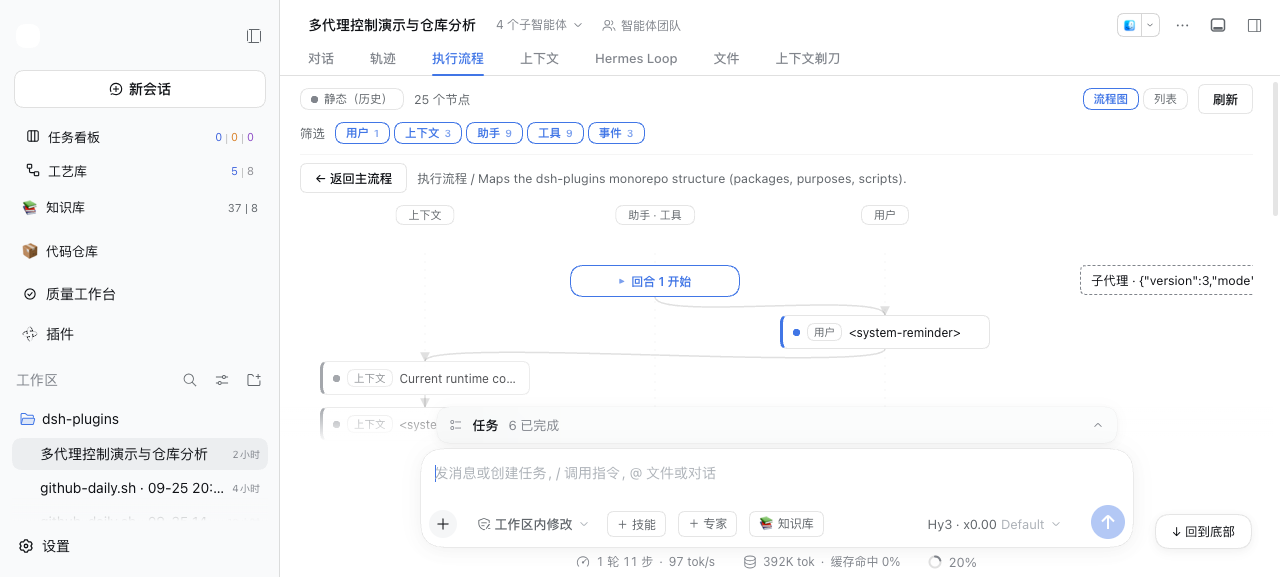
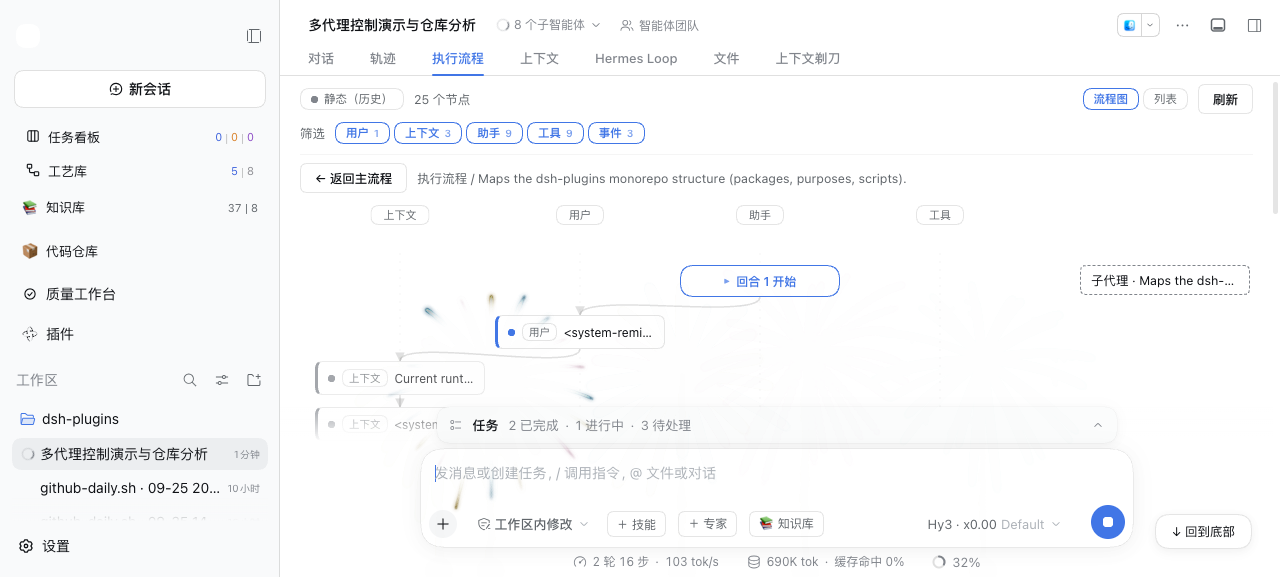
feat: 四泳道布局 + 工具铁路侧线 + 视觉打磨
- 泳道按转移频率排布（上下文|用户|助手|工具），流向单调、交叉最少
- 工具组展开改为铁路侧线：成员在工具泳道纵向串联，一进一出两条边
- 子代理扇形保留发散-收敛；已配对名册不再重复挂旁路；单子代理也走扇形
- 吸顶工具栏 + 泳道列头 chip + 上下文降级 + hover 提升
- 回合椭圆带图标与耗时；详情弹窗标题带摘要；descriptor 取顶层 label
- README 接入四张实拍图（总览/扇形/下钻/列表）

diff --git a/client/bundle.js b/client/bundle.js
@@ -375,23 +375,26 @@ window.__ModuleLoader__.load({
     }
 
     // ── 流程图布局 ───────────────────────────────────────────────────────────
-    // 三条垂直泳道：上下文（左，注入类消息）/ 助手与工具（中，主链）/ 用户（右）。
-    // 回合椭圆与审批菱形居中泳道；展开的工具组向右扇出 fork-join 分支；并行的
-    // 子代理委派（subagent/agent/lead 工具的连续并行调用）在主链下方横向一字
-    // 排开，发散再收敛；重试/失败尝试/压缩等旁路事件挂最右侧虚线分支。
+    // 四条垂直泳道按「转移频率」排布，让流向单调、交叉最少：
+    //   上下文 | 用户 | 助手（主链）| 工具
+    // 回合开始时从左向右单调推进（注入 → 提问 → 助手），随后助手↔工具在右侧相邻
+    // 两列来回——相邻泳道短弧线，不再左右横穿。
+    // 展开的工具组是「铁路侧线」：成员在工具泳道纵向串联，组框一条边引入、末成员
+    // 一条边汇回主链；子代理委派组保持横向发散-收敛扇形；重试/压缩等旁路挂在
+    // 工具泳道右侧。
     const CHART = {
-      laneCtxX: 125, spineX: 355, laneUserX: 585,
-      boxW: 210, boxH: 34,
-      ovalW: 170, ovalEndW: 236, ovalH: 32, diamondW: 160, diamondH: 44,
+      laneCtxX: 100, laneUserX: 280, spineX: 460, laneToolX: 640,
+      boxW: 170, boxH: 34,
+      ovalW: 160, ovalEndW: 220, ovalH: 32, diamondW: 150, diamondH: 44,
       rowGap: 12, turnGap: 18,
-      branchX: 760, memberW: 220, memberH: 30, memberGap: 6,
-      sideX: 780, sideW: 210, sideH: 30, sideGap: 6,
-      fanMemberW: 180, fanGapX: 14, fanDrop: 54,
+      memberW: 170, memberH: 30, memberGap: 8,
+      sideX: 780, sideW: 170, sideH: 30, sideGap: 6,
+      fanMemberW: 165, fanGapX: 12, fanDrop: 54,
       padTop: 34, padBottom: 24,
     }
     const SIDE_KINDS = new Set(['retry', 'attempt', 'compaction', 'command', 'subagent', 'workflow', 'goal'])
 
-    /** 泳道中心线：上下文靠左、用户靠右、其余（助手/工具/待办/回合/审批）居中。 */
+    /** 泳道中心线：上下文靠左、用户次左、助手居中、工具靠右。 */
     function laneXFor(kind) {
       if (kind === 'context') return CHART.laneCtxX
       if (kind === 'user') return CHART.laneUserX
@@ -468,15 +471,16 @@ window.__ModuleLoader__.load({
 
     /**
      * 布局：items（groupNodes 之后）→ { pos: Map(id → {x,y,w,h,shape,item}),
-     * edges: [{x1,y1,x2,y2,kind}], width, height, fanGroups }。纯函数。
-     * kind 取值：spine（主链）/ fork / join（右列工具分支）/ fanfork / fanjoin
-     * （子代理扇形）/ retry / attempt / compaction / command / …（虚线旁路）。
+     * edges: [{x1,y1,x2,y2,kind,hue?}], width, height, fanGroups }。纯函数。
+     * kind 取值：spine（主链）/ fork / chain / join（工具侧线）/ fanfork /
+     * fanjoin（子代理扇形）/ retry / attempt / compaction / …（虚线旁路）。
      */
     function layoutFlow(items, openGroups) {
       const pos = new Map()
       const spine = []
       const sides = []
-      const fans = []        // 展开的并行子代理组（供边生成）
+      const fans = []        // 展开的子代理组（供边生成）
+      const sidings = []     // 展开的普通工具组（铁路侧线）
       const anchorSlots = new Map()
       let y = CHART.padTop
       let lastSpineId = null
@@ -496,7 +500,7 @@ window.__ModuleLoader__.load({
         const shape = kind === 'turn' ? 'oval' : kind === 'approval' ? 'diamond' : 'box'
         const w = shape === 'oval' ? (item.phase === 'end' ? CHART.ovalEndW : CHART.ovalW) : shape === 'diamond' ? CHART.diamondW : CHART.boxW
         const hgt = shape === 'oval' ? CHART.ovalH : shape === 'diamond' ? CHART.diamondH : CHART.boxH
-        // 回合与决策始终居中泳道；用户/上下文各走自己的泳道
+        // 回合与决策在主泳道；用户/上下文各走自己的泳道
         const laneX = shape === 'box' ? laneXFor(kind) : CHART.spineX
         pos.set(item.id, { x: laneX - w / 2, y, w, h: hgt, shape, item })
         spine.push(item.id)
@@ -515,11 +519,13 @@ window.__ModuleLoader__.load({
             fans.push(item.id)
             y = fanY + CHART.memberH + 10
           } else {
-            // 普通工具组：右列 fork-join
+            // 铁路侧线：成员在工具泳道纵向串联，位于组框与下一个主链节点之间
+            const mx = CHART.laneToolX - CHART.memberW / 2
             ms.forEach((m, i) => {
-              pos.set(m.id, { x: CHART.branchX, y: y + 6 + i * (CHART.memberH + CHART.memberGap), w: CHART.memberW, h: CHART.memberH, shape: 'member', item: m })
+              pos.set(m.id, { x: mx, y: y + 6 + i * (CHART.memberH + CHART.memberGap), w: CHART.memberW, h: CHART.memberH, shape: 'member', item: m })
             })
-            y += 6 + ms.length * CHART.memberH + Math.max(0, ms.length - 1) * CHART.memberGap + 6
+            sidings.push(item.id)
+            y += 6 + ms.length * CHART.memberH + Math.max(0, ms.length - 1) * CHART.memberGap + 10
           }
         }
         y += kind === 'turn' ? CHART.turnGap : CHART.rowGap
@@ -535,11 +541,12 @@ window.__ModuleLoader__.load({
       }
 
       const fanSet = new Set(fans)
+      const sidingSet = new Set(sidings)
       const edges = []
-      // 主链：相邻脊柱节点串联；展开的子代理扇形占据的区间不画直线（由扇形边表达流向）
+      // 主链：相邻脊柱节点串联；展开的组（扇形/侧线）区间不画直线——流向由分支表达
       for (let i = 1; i < spine.length; i++) {
         const prevItem = pos.get(spine[i - 1]).item
-        if (fanSet.has(prevItem.id)) continue
+        if (fanSet.has(prevItem.id) || sidingSet.has(prevItem.id)) continue
         const a = pos.get(spine[i - 1])
         const b = pos.get(spine[i])
         edges.push({
@@ -568,18 +575,32 @@ window.__ModuleLoader__.load({
           }
           continue
         }
-        // 普通工具组：fork 出右列、join 回主链（边随成员工具的颜色）
-        const gy = g.y + g.h / 2
-        const jx = next ? next.x + next.w : g.x + g.w / 2
-        const jy = next ? next.y + next.h / 2 : g.y + g.h + 12
-        for (const m of item.members) {
-          const p = pos.get(m.id)
-          const my = p.y + p.h / 2
-          edges.push({ x1: g.x + g.w, y1: gy, x2: p.x, y2: my, kind: 'fork', hue: toolHue(m.name) })
-          edges.push({ x1: p.x + p.w, y1: my, x2: jx, y2: jy, kind: 'join', hue: toolHue(m.name) })
+        // 铁路侧线：组框右缘 → 首成员顶中；成员间在工具泳道内垂直串联；
+        // 末成员底中 → 下一脊柱节点顶中。边色随各成员工具。
+        const first = pos.get(item.members[0].id)
+        const last = pos.get(item.members[item.members.length - 1].id)
+        edges.push({
+          x1: g.x + g.w, y1: g.y + g.h / 2,
+          x2: CHART.laneToolX, y2: first.y,
+          kind: 'fork', hue: toolHue(item.members[0].name),
+        })
+        for (let i = 1; i < item.members.length; i++) {
+          const prev = pos.get(item.members[i - 1].id)
+          const cur = pos.get(item.members[i].id)
+          edges.push({
+            x1: CHART.laneToolX, y1: prev.y + prev.h,
+            x2: CHART.laneToolX, y2: cur.y,
+            kind: 'chain', hue: toolHue(item.members[i].name),
+          })
         }
+        edges.push({
+          x1: CHART.laneToolX, y1: last.y + last.h,
+          x2: next ? next.x + next.w / 2 : g.x + g.w / 2,
+          y2: next ? next.y : last.y + last.h + 28,
+          kind: 'join', hue: toolHue(item.members[item.members.length - 1].name),
+        })
       }
-      // 旁路：锚点右边 → 旁路框左边（虚线）
+      // 旁路：锚点右边 → 旁路框左边（虚线，工具泳道右侧）
       for (const { item, anchorId } of sides) {
         const a = pos.get(anchorId)
         const p = pos.get(item.id)
@@ -732,7 +753,7 @@ window.__ModuleLoader__.load({
     .fw-chart-edges{position:absolute;left:0;top:0;pointer-events:none;overflow:visible}
     .fw-edge{fill:none;stroke:var(--dsw-alias-border-l3,rgba(128,128,128,.6));stroke-width:1.5}
     .fw-edge.spine{stroke:var(--dsw-alias-border-l3,rgba(128,128,128,.7))}
-    .fw-edge.fork,.fw-edge.join,.fw-edge.fanfork,.fw-edge.fanjoin{stroke-width:1.8}
+    .fw-edge.fork,.fw-edge.join,.fw-edge.fanfork,.fw-edge.fanjoin,.fw-edge.chain{stroke-width:1.8}
     .fw-edge.retry{stroke:hsl(20,85%,50%);stroke-dasharray:5 4}
     .fw-edge.attempt{stroke:var(--dsw-alias-state-error-primary);stroke-dasharray:5 4}
     .fw-edge.subagent{stroke:hsl(265,60%,52%);stroke-dasharray:5 4}
@@ -973,8 +994,9 @@ window.__ModuleLoader__.load({
         : null
       const lanes = [
         { x: CHART.laneCtxX, label: t('kindContext') },
-        { x: CHART.spineX, label: t('kindAssistant') + ' · ' + t('kindTool') },
         { x: CHART.laneUserX, label: t('kindUser') },
+        { x: CHART.spineX, label: t('kindAssistant') },
+        { x: CHART.laneToolX, label: t('kindTool') },
       ]
       return h('div', { className: 'fw-chart-wrap' },
         // 泳道列头：sticky，滚动长图时始终可见（与画布同宽同坐标系）

diff --git a/client/index.js b/client/index.js
@@ -365,23 +365,26 @@ function toolGroupLine(members) {
 }
 
 // ── 流程图布局 ───────────────────────────────────────────────────────────
-// 三条垂直泳道：上下文（左，注入类消息）/ 助手与工具（中，主链）/ 用户（右）。
-// 回合椭圆与审批菱形居中泳道；展开的工具组向右扇出 fork-join 分支；并行的
-// 子代理委派（subagent/agent/lead 工具的连续并行调用）在主链下方横向一字
-// 排开，发散再收敛；重试/失败尝试/压缩等旁路事件挂最右侧虚线分支。
+// 四条垂直泳道按「转移频率」排布，让流向单调、交叉最少：
+//   上下文 | 用户 | 助手（主链）| 工具
+// 回合开始时从左向右单调推进（注入 → 提问 → 助手），随后助手↔工具在右侧相邻
+// 两列来回——相邻泳道短弧线，不再左右横穿。
+// 展开的工具组是「铁路侧线」：成员在工具泳道纵向串联，组框一条边引入、末成员
+// 一条边汇回主链；子代理委派组保持横向发散-收敛扇形；重试/压缩等旁路挂在
+// 工具泳道右侧。
 const CHART = {
-  laneCtxX: 125, spineX: 355, laneUserX: 585,
-  boxW: 210, boxH: 34,
-  ovalW: 170, ovalEndW: 236, ovalH: 32, diamondW: 160, diamondH: 44,
+  laneCtxX: 100, laneUserX: 280, spineX: 460, laneToolX: 640,
+  boxW: 170, boxH: 34,
+  ovalW: 160, ovalEndW: 220, ovalH: 32, diamondW: 150, diamondH: 44,
   rowGap: 12, turnGap: 18,
-  branchX: 760, memberW: 220, memberH: 30, memberGap: 6,
-  sideX: 780, sideW: 210, sideH: 30, sideGap: 6,
-  fanMemberW: 180, fanGapX: 14, fanDrop: 54,
+  memberW: 170, memberH: 30, memberGap: 8,
+  sideX: 780, sideW: 170, sideH: 30, sideGap: 6,
+  fanMemberW: 165, fanGapX: 12, fanDrop: 54,
   padTop: 34, padBottom: 24,
 }
 const SIDE_KINDS = new Set(['retry', 'attempt', 'compaction', 'command', 'subagent', 'workflow', 'goal'])
 
-/** 泳道中心线：上下文靠左、用户靠右、其余（助手/工具/待办/回合/审批）居中。 */
+/** 泳道中心线：上下文靠左、用户次左、助手居中、工具靠右。 */
 function laneXFor(kind) {
   if (kind === 'context') return CHART.laneCtxX
   if (kind === 'user') return CHART.laneUserX
@@ -458,15 +461,16 @@ function attachChildren(nodes) {
 
 /**
  * 布局：items（groupNodes 之后）→ { pos: Map(id → {x,y,w,h,shape,item}),
- * edges: [{x1,y1,x2,y2,kind}], width, height, fanGroups }。纯函数。
- * kind 取值：spine（主链）/ fork / join（右列工具分支）/ fanfork / fanjoin
- * （子代理扇形）/ retry / attempt / compaction / command / …（虚线旁路）。
+ * edges: [{x1,y1,x2,y2,kind,hue?}], width, height, fanGroups }。纯函数。
+ * kind 取值：spine（主链）/ fork / chain / join（工具侧线）/ fanfork /
+ * fanjoin（子代理扇形）/ retry / attempt / compaction / …（虚线旁路）。
  */
 function layoutFlow(items, openGroups) {
   const pos = new Map()
   const spine = []
   const sides = []
-  const fans = []        // 展开的并行子代理组（供边生成）
+  const fans = []        // 展开的子代理组（供边生成）
+  const sidings = []     // 展开的普通工具组（铁路侧线）
   const anchorSlots = new Map()
   let y = CHART.padTop
   let lastSpineId = null
@@ -486,7 +490,7 @@ function layoutFlow(items, openGroups) {
     const shape = kind === 'turn' ? 'oval' : kind === 'approval' ? 'diamond' : 'box'
     const w = shape === 'oval' ? (item.phase === 'end' ? CHART.ovalEndW : CHART.ovalW) : shape === 'diamond' ? CHART.diamondW : CHART.boxW
     const hgt = shape === 'oval' ? CHART.ovalH : shape === 'diamond' ? CHART.diamondH : CHART.boxH
-    // 回合与决策始终居中泳道；用户/上下文各走自己的泳道
+    // 回合与决策在主泳道；用户/上下文各走自己的泳道
     const laneX = shape === 'box' ? laneXFor(kind) : CHART.spineX
     pos.set(item.id, { x: laneX - w / 2, y, w, h: hgt, shape, item })
     spine.push(item.id)
@@ -505,11 +509,13 @@ function layoutFlow(items, openGroups) {
         fans.push(item.id)
         y = fanY + CHART.memberH + 10
       } else {
-        // 普通工具组：右列 fork-join
+        // 铁路侧线：成员在工具泳道纵向串联，位于组框与下一个主链节点之间
+        const mx = CHART.laneToolX - CHART.memberW / 2
         ms.forEach((m, i) => {
-          pos.set(m.id, { x: CHART.branchX, y: y + 6 + i * (CHART.memberH + CHART.memberGap), w: CHART.memberW, h: CHART.memberH, shape: 'member', item: m })
+          pos.set(m.id, { x: mx, y: y + 6 + i * (CHART.memberH + CHART.memberGap), w: CHART.memberW, h: CHART.memberH, shape: 'member', item: m })
         })
-        y += 6 + ms.length * CHART.memberH + Math.max(0, ms.length - 1) * CHART.memberGap + 6
+        sidings.push(item.id)
+        y += 6 + ms.length * CHART.memberH + Math.max(0, ms.length - 1) * CHART.memberGap + 10
       }
     }
     y += kind === 'turn' ? CHART.turnGap : CHART.rowGap
@@ -525,11 +531,12 @@ function layoutFlow(items, openGroups) {
   }
 
   const fanSet = new Set(fans)
+  const sidingSet = new Set(sidings)
   const edges = []
-  // 主链：相邻脊柱节点串联；展开的子代理扇形占据的区间不画直线（由扇形边表达流向）
+  // 主链：相邻脊柱节点串联；展开的组（扇形/侧线）区间不画直线——流向由分支表达
   for (let i = 1; i < spine.length; i++) {
     const prevItem = pos.get(spine[i - 1]).item
-    if (fanSet.has(prevItem.id)) continue
+    if (fanSet.has(prevItem.id) || sidingSet.has(prevItem.id)) continue
     const a = pos.get(spine[i - 1])
     const b = pos.get(spine[i])
     edges.push({
@@ -558,18 +565,32 @@ function layoutFlow(items, openGroups) {
       }
       continue
     }
-    // 普通工具组：fork 出右列、join 回主链（边随成员工具的颜色）
-    const gy = g.y + g.h / 2
-    const jx = next ? next.x + next.w : g.x + g.w / 2
-    const jy = next ? next.y + next.h / 2 : g.y + g.h + 12
-    for (const m of item.members) {
-      const p = pos.get(m.id)
-      const my = p.y + p.h / 2
-      edges.push({ x1: g.x + g.w, y1: gy, x2: p.x, y2: my, kind: 'fork', hue: toolHue(m.name) })
-      edges.push({ x1: p.x + p.w, y1: my, x2: jx, y2: jy, kind: 'join', hue: toolHue(m.name) })
+    // 铁路侧线：组框右缘 → 首成员顶中；成员间在工具泳道内垂直串联；
+    // 末成员底中 → 下一脊柱节点顶中。边色随各成员工具。
+    const first = pos.get(item.members[0].id)
+    const last = pos.get(item.members[item.members.length - 1].id)
+    edges.push({
+      x1: g.x + g.w, y1: g.y + g.h / 2,
+      x2: CHART.laneToolX, y2: first.y,
+      kind: 'fork', hue: toolHue(item.members[0].name),
+    })
+    for (let i = 1; i < item.members.length; i++) {
+      const prev = pos.get(item.members[i - 1].id)
+      const cur = pos.get(item.members[i].id)
+      edges.push({
+        x1: CHART.laneToolX, y1: prev.y + prev.h,
+        x2: CHART.laneToolX, y2: cur.y,
+        kind: 'chain', hue: toolHue(item.members[i].name),
+      })
     }
+    edges.push({
+      x1: CHART.laneToolX, y1: last.y + last.h,
+      x2: next ? next.x + next.w / 2 : g.x + g.w / 2,
+      y2: next ? next.y : last.y + last.h + 28,
+      kind: 'join', hue: toolHue(item.members[item.members.length - 1].name),
+    })
   }
-  // 旁路：锚点右边 → 旁路框左边（虚线）
+  // 旁路：锚点右边 → 旁路框左边（虚线，工具泳道右侧）
   for (const { item, anchorId } of sides) {
     const a = pos.get(anchorId)
     const p = pos.get(item.id)
@@ -722,7 +743,7 @@ const STYLE = `<style>
 .fw-chart-edges{position:absolute;left:0;top:0;pointer-events:none;overflow:visible}
 .fw-edge{fill:none;stroke:var(--dsw-alias-border-l3,rgba(128,128,128,.6));stroke-width:1.5}
 .fw-edge.spine{stroke:var(--dsw-alias-border-l3,rgba(128,128,128,.7))}
-.fw-edge.fork,.fw-edge.join,.fw-edge.fanfork,.fw-edge.fanjoin{stroke-width:1.8}
+.fw-edge.fork,.fw-edge.join,.fw-edge.fanfork,.fw-edge.fanjoin,.fw-edge.chain{stroke-width:1.8}
 .fw-edge.retry{stroke:hsl(20,85%,50%);stroke-dasharray:5 4}
 .fw-edge.attempt{stroke:var(--dsw-alias-state-error-primary);stroke-dasharray:5 4}
 .fw-edge.subagent{stroke:hsl(265,60%,52%);stroke-dasharray:5 4}
@@ -963,8 +984,9 @@ function ChartView({ items, openGroups, t, onToggleGroup, onDetail, showGhost, b
     : null
   const lanes = [
     { x: CHART.laneCtxX, label: t('kindContext') },
-    { x: CHART.spineX, label: t('kindAssistant') + ' · ' + t('kindTool') },
     { x: CHART.laneUserX, label: t('kindUser') },
+    { x: CHART.spineX, label: t('kindAssistant') },
+    { x: CHART.laneToolX, label: t('kindTool') },
   ]
   return h('div', { className: 'fw-chart-wrap' },
     // 泳道列头：sticky，滚动长图时始终可见（与画布同宽同坐标系）
